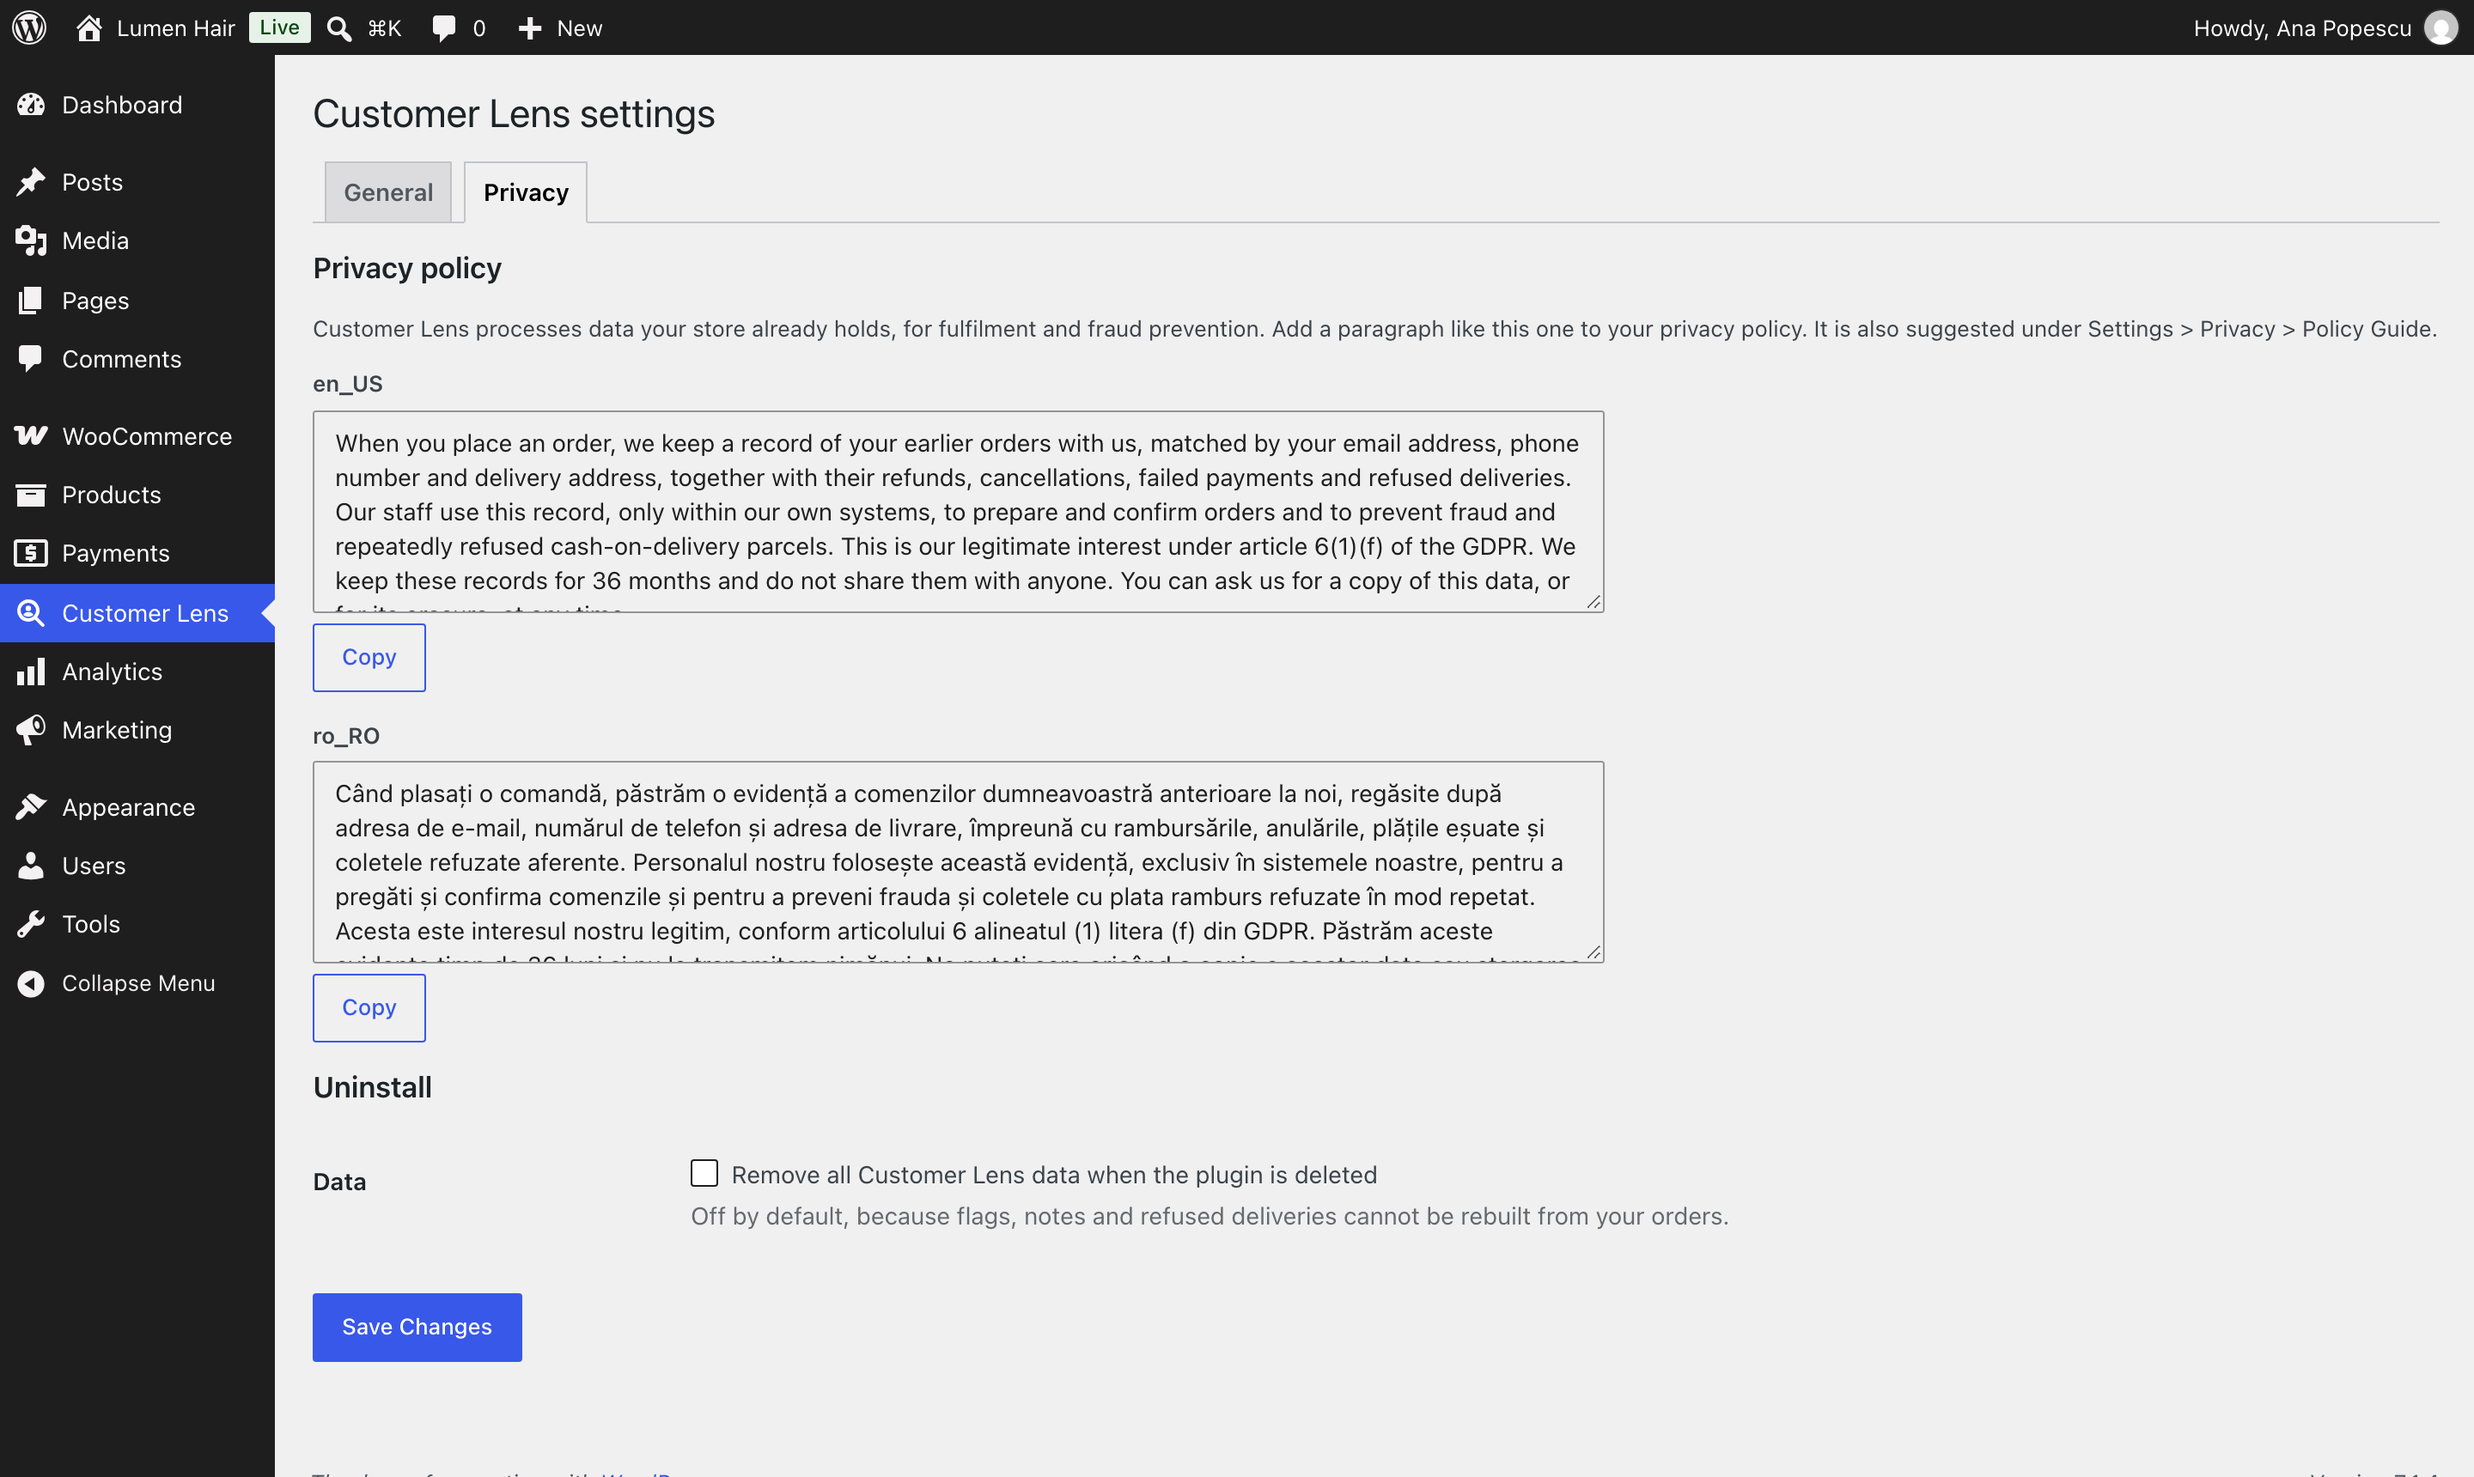
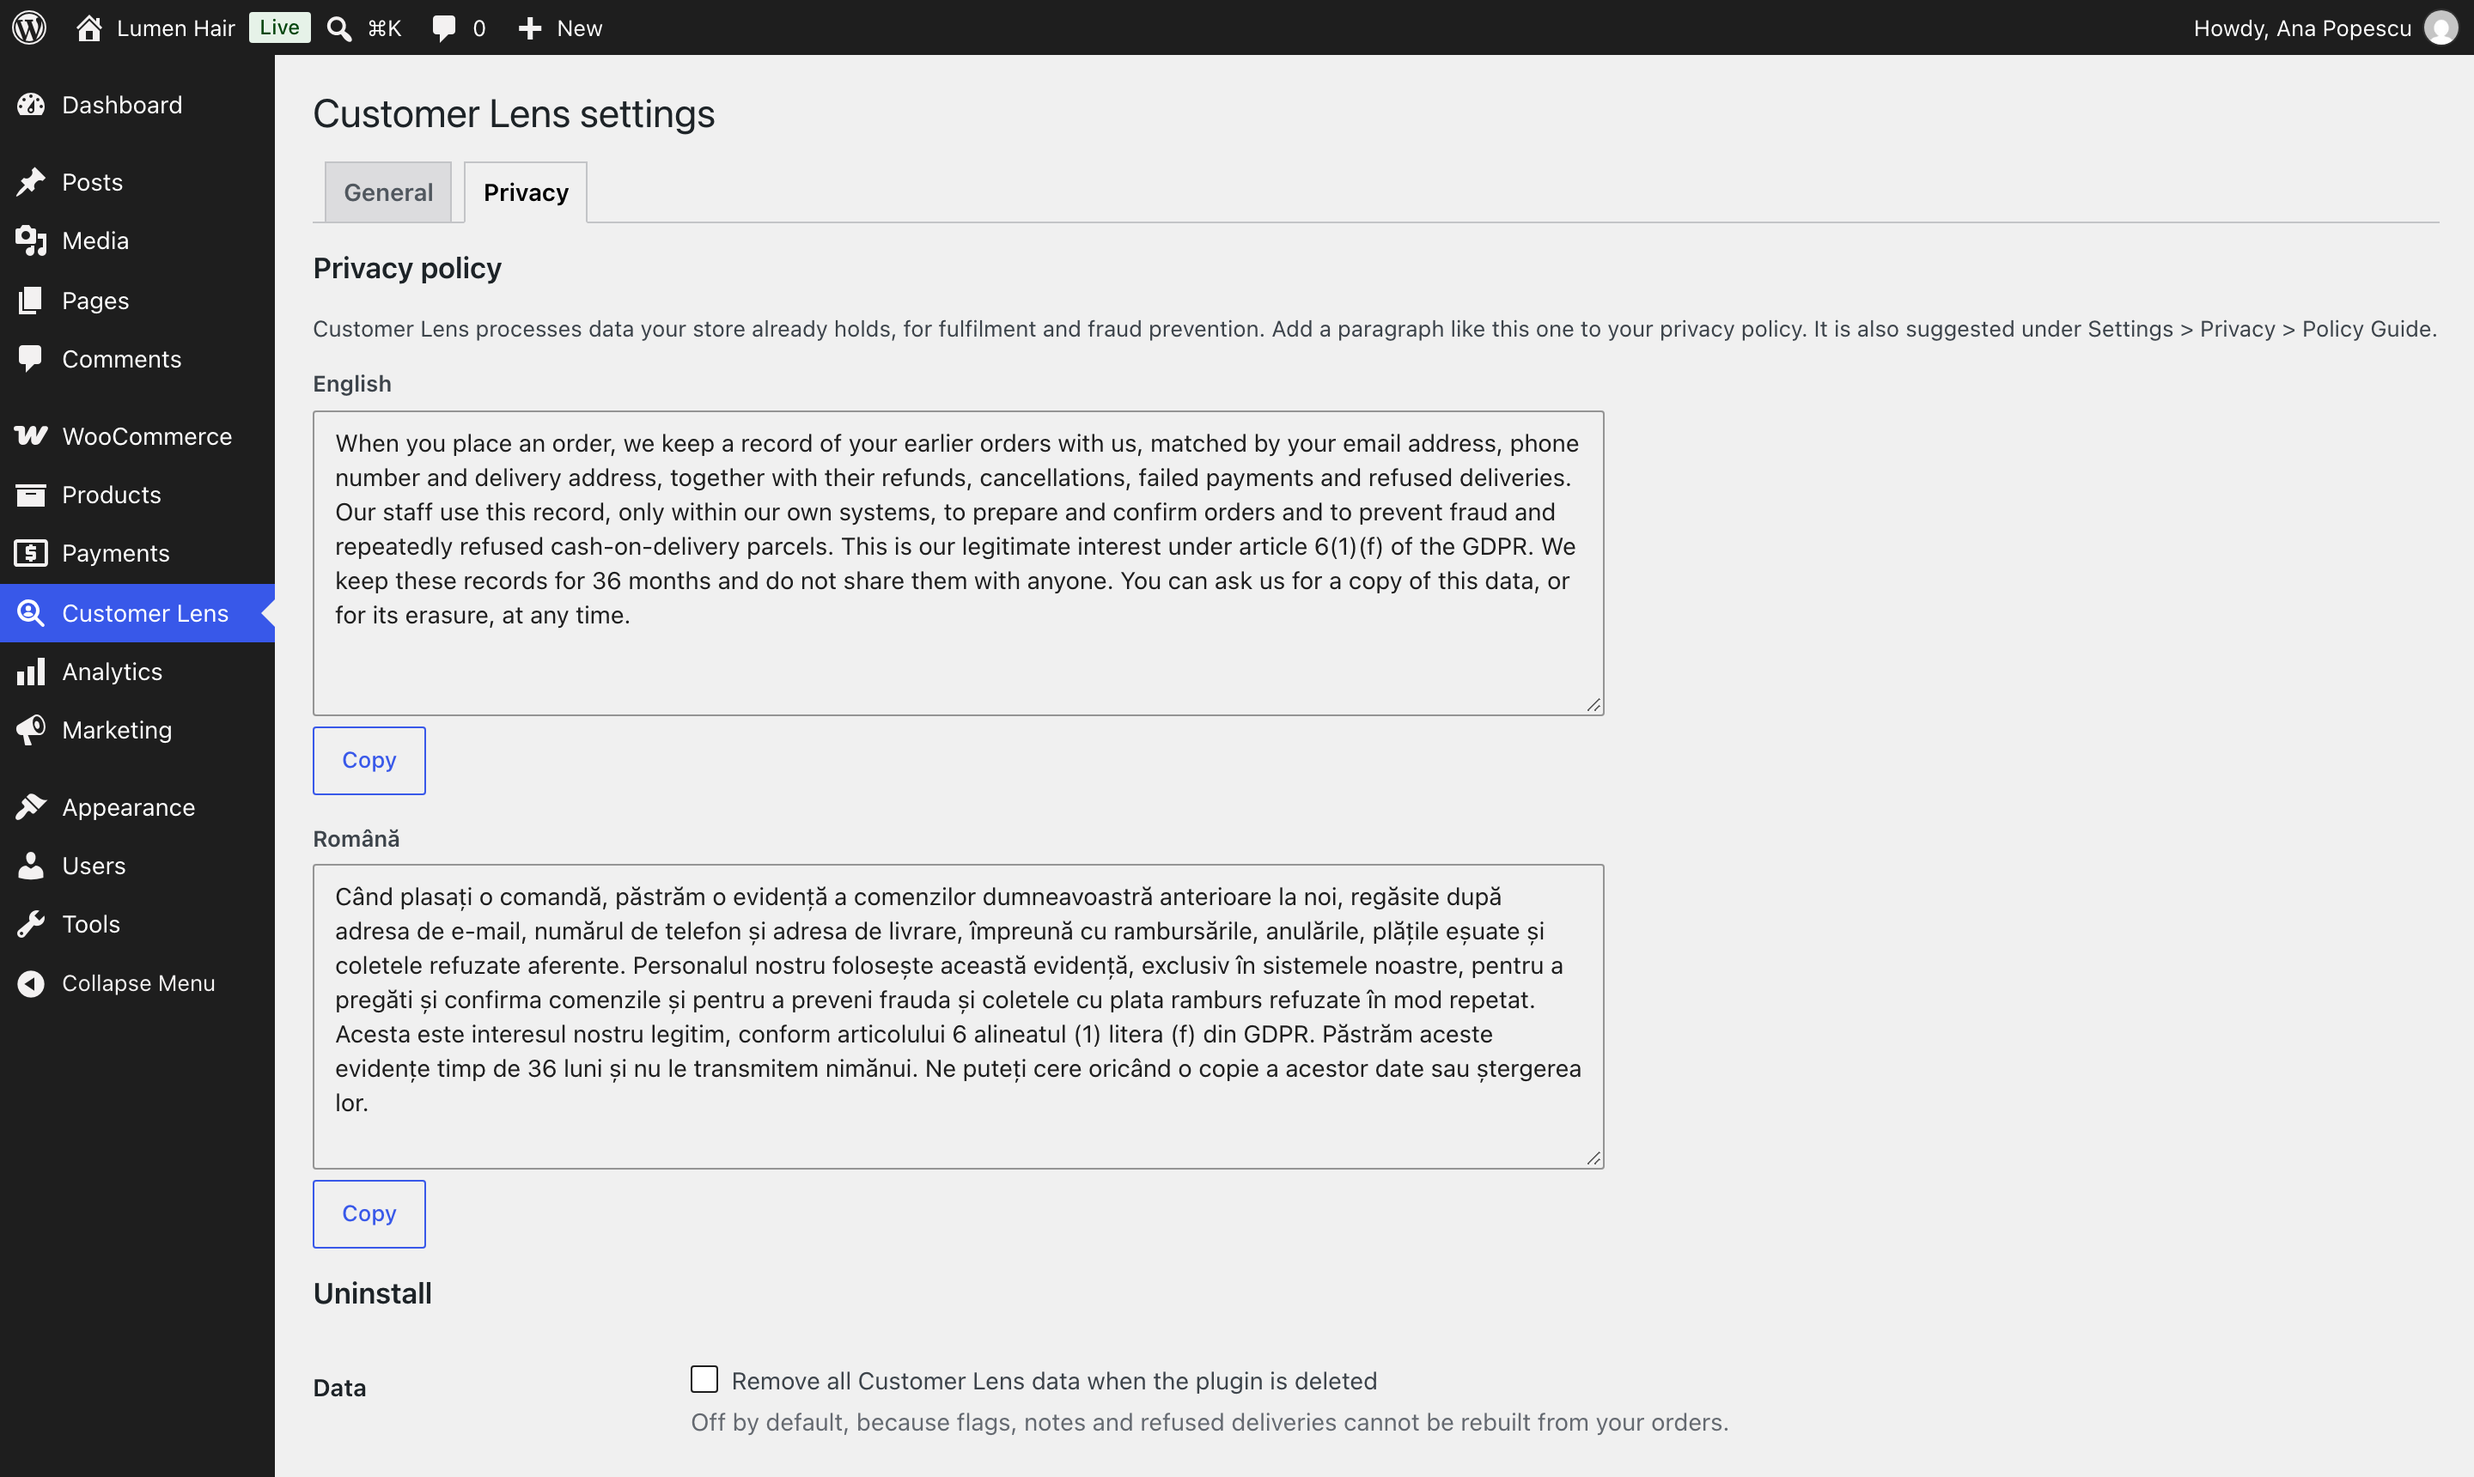
fix: name the policy languages and show the whole text

diff --git a/src/Admin/SettingsPage.php b/src/Admin/SettingsPage.php
@@ -17,8 +17,11 @@ final class SettingsPage {
 	public const SLUG           = 'customer-lens';
 	public const REINDEX_ACTION = 'mwtcl_reindex';
 
-	/** The policy text is offered in these languages, besides the site's own. */
-	public const POLICY_LOCALES = [ 'en_US', 'ro_RO' ];
+	/** The policy text is offered in these languages, besides the site's own, each named in its own language. */
+	public const POLICY_LOCALES = [
+		'en_US' => 'English',
+		'ro_RO' => 'Română',
+	];
 
 	public static function add_hooks(): void {
 		add_action( 'admin_menu', [ self::class, 'menu' ] );
@@ -146,8 +149,8 @@ final class SettingsPage {
 					<p><?php esc_html_e( 'Customer Lens processes data your store already holds, for fulfilment and fraud prevention. Add a paragraph like this one to your privacy policy. It is also suggested under Settings > Privacy > Policy Guide.', 'customer-lens' ); ?></p>
 					<?php foreach ( self::policy_texts() as $locale => $text ) : ?>
 						<div class="mwtcl-policy">
-							<label for="mwtcl-policy-<?php echo esc_attr( $locale ); ?>"><strong><?php echo esc_html( $locale ); ?></strong></label>
-							<textarea id="mwtcl-policy-<?php echo esc_attr( $locale ); ?>" class="large-text" rows="5" readonly><?php echo esc_textarea( $text ); ?></textarea>
+							<label for="mwtcl-policy-<?php echo esc_attr( $locale ); ?>"><strong><?php echo esc_html( self::POLICY_LOCALES[ $locale ] ?? $locale ); ?></strong></label>
+							<textarea id="mwtcl-policy-<?php echo esc_attr( $locale ); ?>" class="large-text" rows="8" readonly><?php echo esc_textarea( $text ); ?></textarea>
 							<button type="button" class="button" data-mwtcl-copy="mwtcl-policy-<?php echo esc_attr( $locale ); ?>" data-copied="<?php esc_attr_e( 'Copied', 'customer-lens' ); ?>"><?php esc_html_e( 'Copy', 'customer-lens' ); ?></button>
 						</div>
 					<?php endforeach; ?>
@@ -238,7 +241,7 @@ final class SettingsPage {
 	private static function policy_texts(): array {
 		$texts = [ determine_locale() => Privacy::policy_text() ];
 
-		foreach ( self::POLICY_LOCALES as $locale ) {
+		foreach ( array_keys( self::POLICY_LOCALES ) as $locale ) {
 			if ( isset( $texts[ $locale ] ) ) {
 				continue;
 			}
